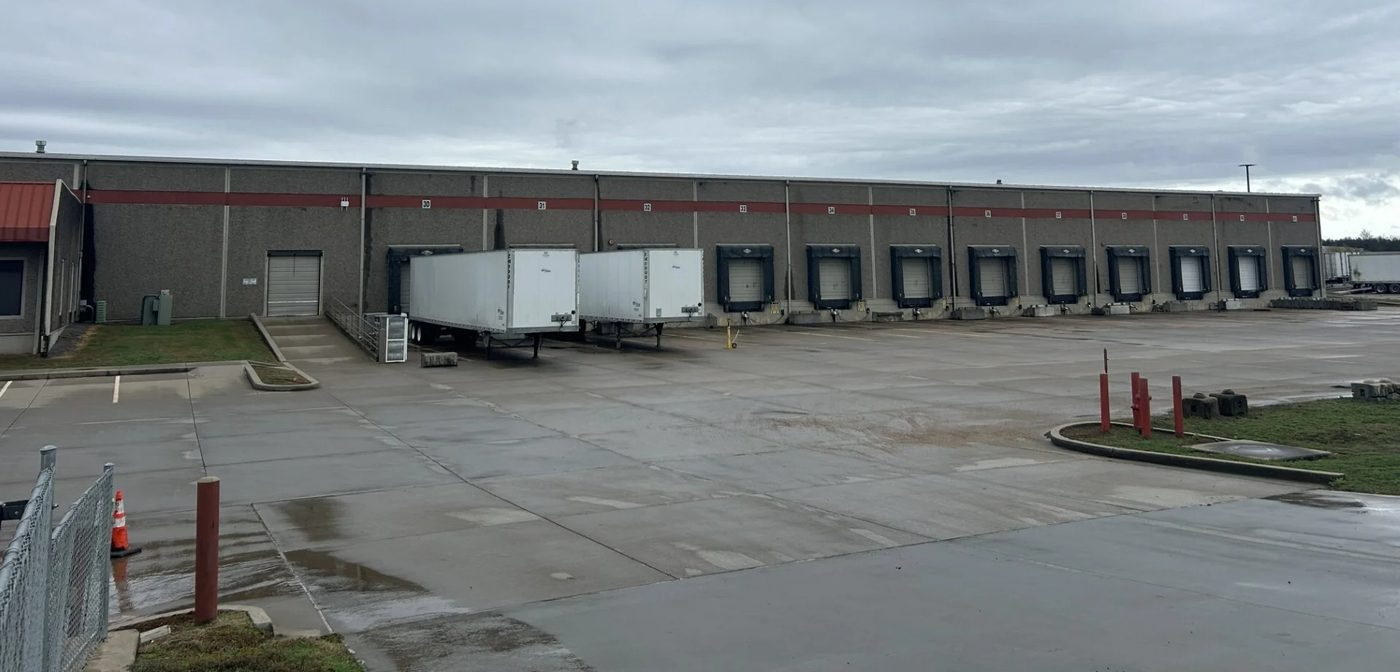
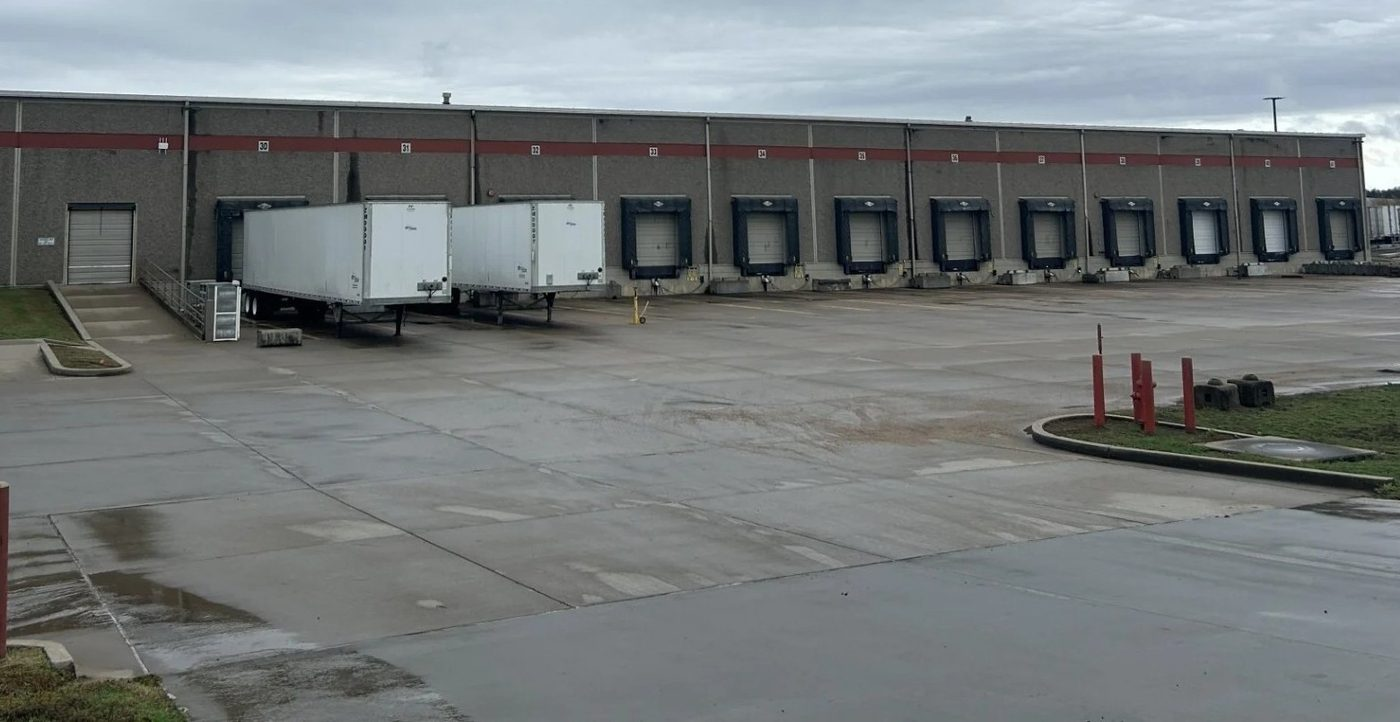
Use customer-approved dock photo with Logistics Warehouse · ArcBest label
Claude-Session: https://claude.ai/code/session_01TkoV7D3scynhpc8Cp5T7RZ

diff --git a/assets/js/app.js b/assets/js/app.js
@@ -2,7 +2,7 @@
    Data: Supabase (LWH Companion project, appt_* RPCs). Email: GAS mailer reads appt_outbox. */
 (() => {
   'use strict';
-  const VERSION = '1.0.4';
+  const VERSION = '1.0.5';
   const SB = 'https://tjivcqxnkftujceumdtx.supabase.co';
   const KEY = 'eyJhbGciOiJIUzI1NiIsInR5cCI6IkpXVCJ9.eyJpc3MiOiJzdXBhYmFzZSIsInJlZiI6InRqaXZjcXhua2Z0dWpjZXVtZHR4Iiwicm9sZSI6ImFub24iLCJpYXQiOjE3ODQ4OTE5NDMsImV4cCI6MjEwMDQ2Nzk0M30.GzDc-_u92jvAHq7eG1X-1cet5Av9qF3ZDEVJMRKEP0E';
   const WX = { lat: 35.333, lon: -94.300, name: 'Fort Smith' };
@@ -40,7 +40,7 @@
   // phone numbers in text become tap-to-call links
   const linkPhones = (t) => esc(t).replace(/\(?\b\d{3}\)?[-.\s]?\d{3}[-.\s]\d{4}\b/g, (m) => '<a href="tel:+1' + m.replace(/\D/g, '') + '">' + m + '</a>');
   const ENTRY_CAPTION = 'Doors 34–41 are used for loading and unloading. Call 479-651-3382 for your door assignment. Paperwork may say 8501 State Hwy 45; we are the building just south of Americold.';
-  const entryPhoto = () => '<figure class="entry-photo"><a href="assets/img/entrance.jpg?v=2" target="_blank" rel="noopener"><img src="assets/img/entrance.jpg?v=2" alt="Logistics Warehouse dock doors 30 to 41" loading="lazy"></a><figcaption>' + linkPhones(ENTRY_CAPTION) + '</figcaption></figure>';
+  const entryPhoto = () => '<figure class="entry-photo"><a href="assets/img/entrance.jpg?v=3" target="_blank" rel="noopener"><img src="assets/img/entrance.jpg?v=3" alt="Logistics Warehouse – ArcBest dock doors" loading="lazy"><span class="photo-tag">Logistics Warehouse · ArcBest</span></a><figcaption>' + linkPhones(ENTRY_CAPTION) + '</figcaption></figure>';
   const mapEmbed = (h) => '<div class="map-box"><iframe title="Map to ' + esc(S.cfg.site_address) + '" loading="lazy" referrerpolicy="no-referrer-when-downgrade" style="height:' + (h || 220) + 'px" src="https://maps.google.com/maps?q=' + encodeURIComponent(mapQ()) + '&z=15&output=embed"></iframe>' +
     '<div class="map-links"><a href="' + mapsUrl() + '" target="_blank" rel="noopener">Get directions</a><a href="' + mapView() + '" target="_blank" rel="noopener">Open in Google Maps</a></div></div>';
 

diff --git a/sw.js b/sw.js
@@ -1,7 +1,7 @@
 /* LWH Dock Appointments service worker: app-shell cache + push notifications. */
-const CACHE = 'lwh-appt-v1.0.4';
-const SHELL = ['./', 'index.html', 'assets/css/theme.css?v=1.0.4', 'assets/css/app.css?v=1.0.4', 'assets/js/app.js?v=1.0.4',
-  'assets/img/logo.png', 'assets/img/entrance.jpg?v=2', 'assets/icons/appt-192.png', 'assets/icons/appt-favicon.png', 'manifest.webmanifest',
+const CACHE = 'lwh-appt-v1.0.5';
+const SHELL = ['./', 'index.html', 'assets/css/theme.css?v=1.0.5', 'assets/css/app.css?v=1.0.5', 'assets/js/app.js?v=1.0.5',
+  'assets/img/logo.png', 'assets/img/entrance.jpg?v=3', 'assets/icons/appt-192.png', 'assets/icons/appt-favicon.png', 'manifest.webmanifest',
   'assets/fonts/oswald-latin-500-normal.woff2', 'assets/fonts/oswald-latin-600-normal.woff2', 'assets/fonts/oswald-latin-700-normal.woff2',
   'assets/fonts/inter-latin-400-normal.woff2', 'assets/fonts/inter-latin-600-normal.woff2', 'assets/fonts/inter-latin-700-normal.woff2'];
 

diff --git a/index.html b/index.html
@@ -13,8 +13,8 @@
   <meta name="mobile-web-app-capable" content="yes">
   <meta name="apple-mobile-web-app-title" content="Dock Appts">
   <link rel="preload" href="assets/fonts/oswald-latin-700-normal.woff2" as="font" type="font/woff2" crossorigin>
-  <link rel="stylesheet" href="assets/css/theme.css?v=1.0.4">
-  <link rel="stylesheet" href="assets/css/app.css?v=1.0.4">
+  <link rel="stylesheet" href="assets/css/theme.css?v=1.0.5">
+  <link rel="stylesheet" href="assets/css/app.css?v=1.0.5">
 </head>
 <body>
   <div class="utility"><div class="wrap">
@@ -48,6 +48,6 @@
   <div class="toast-host" id="toasts"></div>
   <div id="modalHost"></div>
 
-  <script src="assets/js/app.js?v=1.0.4"></script>
+  <script src="assets/js/app.js?v=1.0.5"></script>
 </body>
 </html>

diff --git a/assets/css/app.css b/assets/css/app.css
@@ -183,3 +183,7 @@ body { font-size: 16px; }
 .entry-photo { margin: 12px 0 0; border: 1px solid var(--line); background: #fff; }
 .entry-photo img { display: block; width: 100%; height: auto; }
 .entry-photo figcaption { padding: 8px 12px; font-size: 14px; line-height: 1.4; color: var(--ink-2); border-top: 3px solid var(--teal); }
+
+.entry-photo > a { position: relative; display: block; }
+.entry-photo .photo-tag { position: absolute; left: 0; bottom: 0; background: rgba(13,46,74,.92); color: #fff; font-family: var(--head); font-weight: 600; font-size: 15px; letter-spacing: .6px; text-transform: uppercase; padding: 6px 12px; border-top: 3px solid var(--teal); }
+@media (max-width: 720px) { .entry-photo .photo-tag { font-size: 12.5px; padding: 4px 9px; } }
